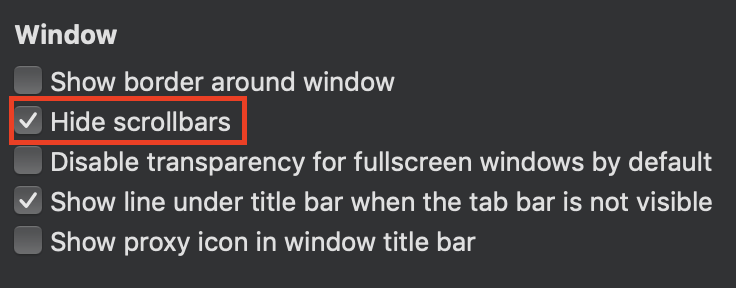
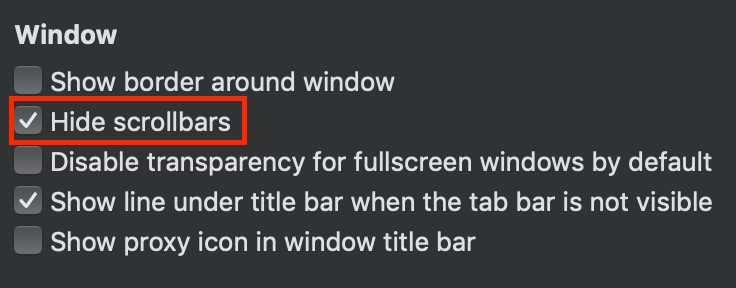
optime images size & add vscode setting md

Changed region(s): [[0.0, 0.3125, 0.3438, 0.5312]]

diff --git a/effective_mac/readme.md b/effective_mac/readme.md
@@ -4,16 +4,11 @@
 ### 1Password
 ### Moom
 ### Alfred 3
-### Sublime
-
-[Sublime](https://www.sublimetext.com/) 是一款用 python 写的轻量级文本编辑器，可以用它编码，也可以作为灵感的临时存储媒介。由于可以做到秒开秒关，在需要做临时记录的时候经常会用到
-
-![](./sublime/images/complete_display.png)
-
-> 安装配置参考 [《SublineText3 安装配置》](./sublime/)
 
 ### ShadowsocksX-NG
-### VSCode
+
+### SourceTree
+
 ### iTerm2
 
 [iTerm2](https://www.iterm2.com/)是用来替代 OSX 默认 Terminal 的免费应用，它提供了丰富的新特性和可配置项让终端用起来更个性化和便捷
@@ -22,6 +17,13 @@
 
 > 安装配置参考 [《iTerm2 安装配置》](./iterm2/)
 
+### Sublime
+
+[Sublime](https://www.sublimetext.com/) 是一款用 python 写的轻量级文本编辑器，可以用它编码，也可以作为灵感的临时存储媒介。由于可以做到秒开秒关，在需要做临时记录的时候经常会用到
+
+![](./sublime/images/complete_display.png)
+
+> 安装配置参考 [《SublineText3 安装配置》](./sublime/)
 
 ### AndroidStudio
 
@@ -32,4 +34,12 @@
 
 > 安装配置参考 [《AS 安装配置》](./as/)
 
-### SourceTree
+### VSCode
+
+[VSCode](https://code.visualstudio.com/)，是一款微软开发的轻量级，高可定制代码编辑器。
+配置简单，功能丰富。我用它开发 golang 后端应用，javascript 前端页面， flutter 客户端，开发体验非常好
+
+![](./vscode/images/complete_display.png)
+
+> 安装配置参考 [《VSCode 安装配置》](./vscode/)
+

diff --git a/effective_mac/vscode/readme.md b/effective_mac/vscode/readme.md
@@ -1,0 +1,53 @@
+# VSCode 安装配置
+
+### 简介
+
+[VSCode](https://code.visualstudio.com/)，是一款微软开发的轻量级，高可定制代码编辑器。
+配置简单，功能丰富。我用它开发 golang 后端应用，javascript 前端页面， flutter 客户端，开发体验非常好
+
+### 配置
+
+到官方下载安装，基本开箱即用。但可以通过一些插件的安装达到更好的编码体验
+
+#### Atom One Dark Theme
+
+钟爱 Atom One Dark 主题，而且这个主题在 VSCode 上表现是最好的，比 [Atom](https://github.com/atom/atom) 上还好
+
+#### Flutter & Dart
+
+两个打包安装，开发 Flutter 必备
+
+#### Bracket Pair Colorizer
+
+括号彩色匹配 Flutter UI 开发必备
+
+#### Vetur
+
+Vue 开发必备，提供了很多工具和 snippet
+
+#### Output Colorizer
+
+Output 不在是单色，容易分辨输出类别
+
+#### Python
+
+Python 语言工具包
+
+#### vscode-icons
+
+为各种文件类型提供 icon， 目录内容更容易分辨
+
+#### ESLint
+
+Javascript eslint 自动报错和纠错
+
+#### GitLens
+
+神器！！！在代码中嵌入 git 日志，必要信息和操作入口。在看代码的时候回溯版本脉弱变得轻而易举
+
+#### Go
+
+开发 Golang 项目必备
+
+![](./images/complete_display.png)
+

diff --git a/effective_mac/iterm2/readme.md b/effective_mac/iterm2/readme.md
@@ -1,4 +1,4 @@
-# iTerm2
+# iTerm2 安装配置
 
 ### 简介
 
